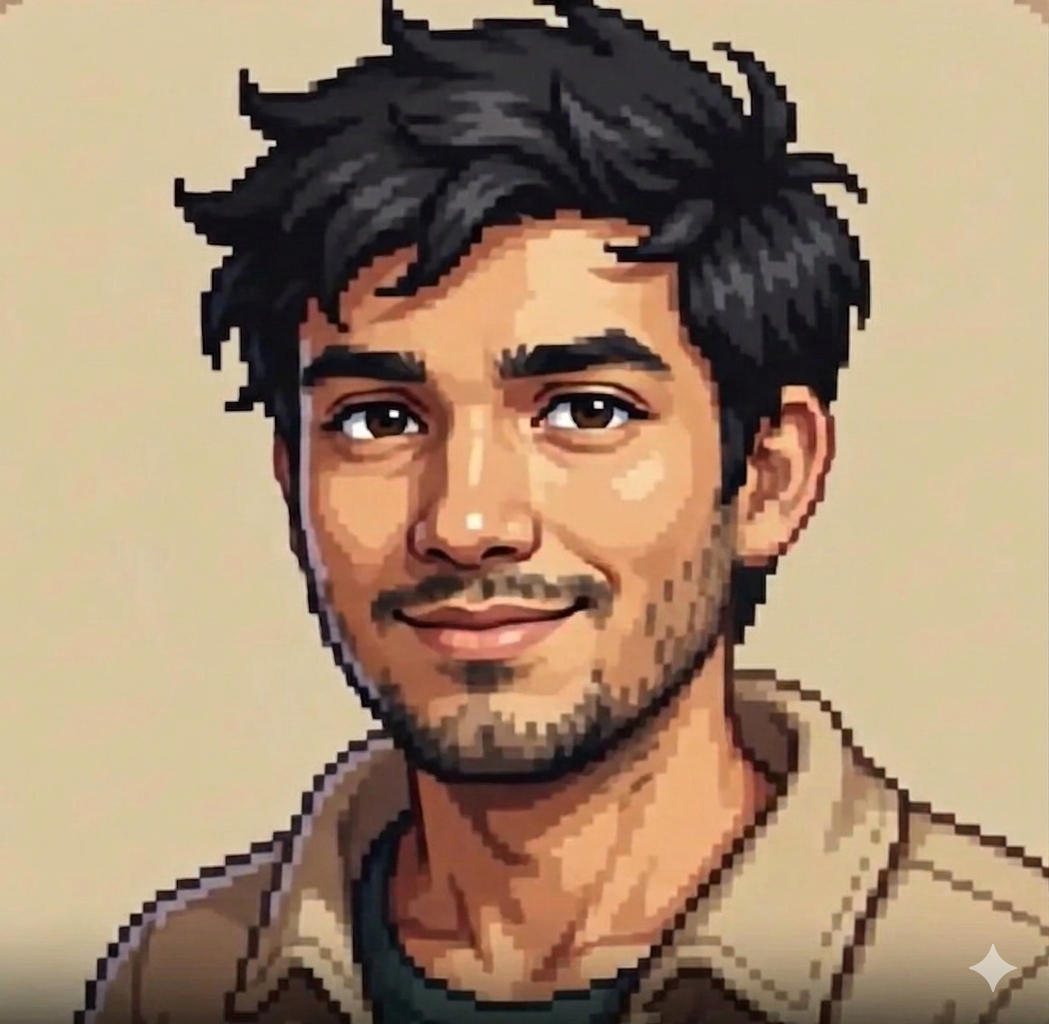
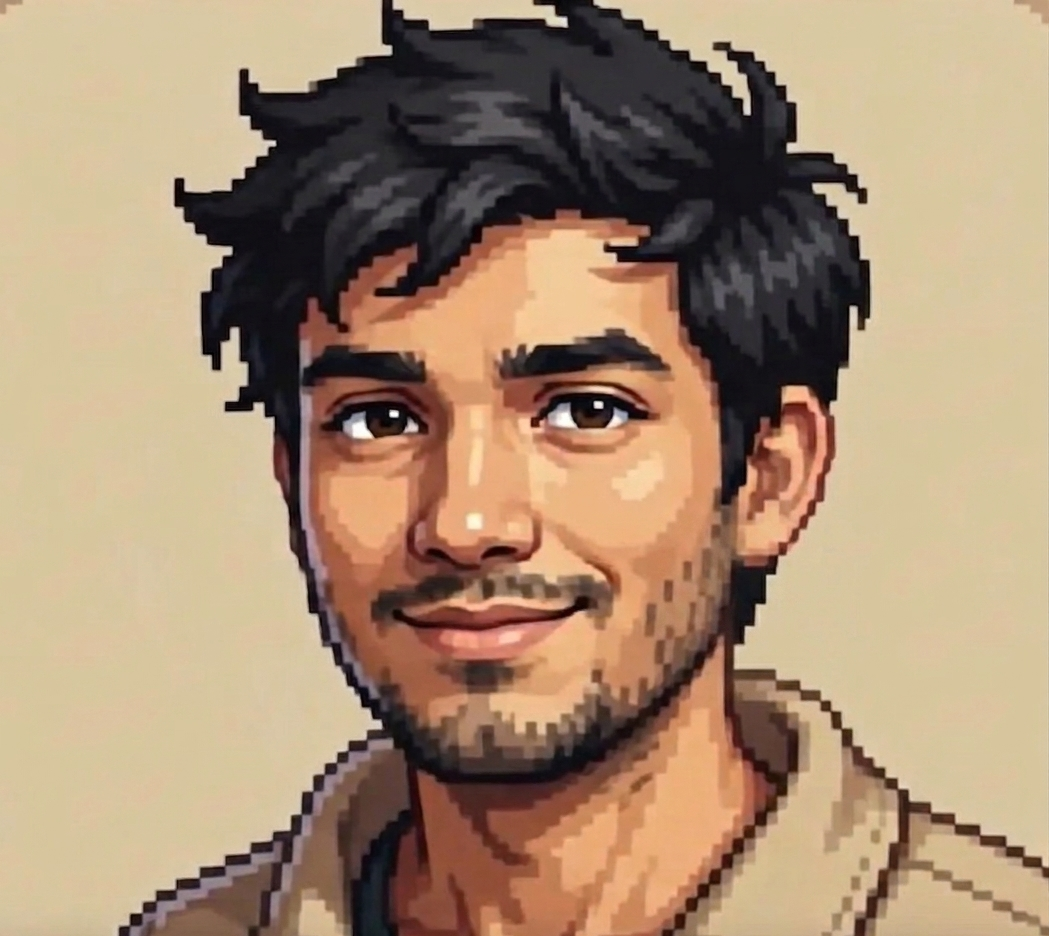
Changed

diff --git a/components/Footer.tsx b/components/Footer.tsx
@@ -13,22 +13,16 @@ export default function Footer() {
             <a 
               href="https://instagram.com/lone_melodies" 
               target="_blank"
+              rel="noopener noreferrer"
               className="font-mono text-[11px] text-portfolio-ink-3 no-underline tracking-[0.04em] hover:text-portfolio-ink transition-colors"
             >
               @lone_melodies
             </a>
             <span className="text-portfolio-rule text-[11px]">·</span>
             <a 
-              href="#" 
-              target="_blank"
-              className="font-mono text-[11px] text-portfolio-ink-3 no-underline tracking-[0.04em] hover:text-portfolio-ink transition-colors"
-            >
-              Unspoken Love
-            </a>
-            <span className="text-portfolio-rule text-[11px]">·</span>
-            <a 
               href="https://youtube.com/@charansimplifies" 
               target="_blank"
+              rel="noopener noreferrer"
               className="font-mono text-[11px] text-portfolio-ink-3 no-underline tracking-[0.04em] hover:text-portfolio-ink transition-colors"
             >
               charansimplifies

diff --git a/components/Contact.tsx b/components/Contact.tsx
@@ -36,13 +36,14 @@ export default function Contact() {
               {[
                 { name: 'GitHub', handle: 'charansaiponnada ↗', href: 'https://github.com/charansaiponnada' },
                 { name: 'LinkedIn', handle: 'charansaiponnada ↗', href: 'https://linkedin.com/in/charansaiponnada' },
-                { name: 'Portfolio', handle: 'charansaiponnada.vercel.app ↗', href: 'https://charansaiponnada.vercel.app' },
+                { name: 'Resume', handle: 'resume.pdf ↗', href: '/resume.pdf' },
                 { name: 'Phone', handle: '[phone redacted]', href: 'tel:[phone redacted]' }
               ].map((link) => (
                 <a 
                   key={link.name}
                   href={link.href}
                   target="_blank"
+                  rel="noopener noreferrer"
                   className="flex justify-between items-center py-3.5 border-b border-portfolio-rule no-underline transition-colors hover:border-portfolio-ink-3"
                 >
                   <span className="font-mono text-[12px] text-portfolio-ink tracking-[0.04em]">{link.name}</span>

diff --git a/components/Hero.tsx b/components/Hero.tsx
@@ -63,12 +63,13 @@ export default function Hero() {
                 { label: 'github', href: 'https://github.com/charansaiponnada' },
                 { label: 'linkedin', href: 'https://linkedin.com/in/charansaiponnada' },
                 { label: 'email', href: 'mailto:[email redacted]' },
-                { label: 'portfolio ↗', href: 'https://charansaiponnada.vercel.app' }
+                { label: 'resume ↗', href: '/resume.pdf' }
               ].map((link) => (
                 <a 
                   key={link.label}
                   href={link.href}
                   target="_blank"
+                  rel="noopener noreferrer"
                   className="font-mono text-[12px] text-portfolio-ink-3 no-underline border-b border-portfolio-rule pb-[2px] hover:text-portfolio-sienna hover:border-portfolio-sienna transition-all"
                 >
                   {link.label}

diff --git a/components/Projects.tsx b/components/Projects.tsx
@@ -78,6 +78,7 @@ export default function Projects() {
                   <a 
                     href={p.link} 
                     target="_blank" 
+                    rel="noopener noreferrer"
                     className="font-mono text-[11px] text-portfolio-ink-3 no-underline pt-1 tracking-[0.04em] whitespace-nowrap hover:text-portfolio-sienna transition-colors hidden md:block"
                   >
                     {p.linkText}